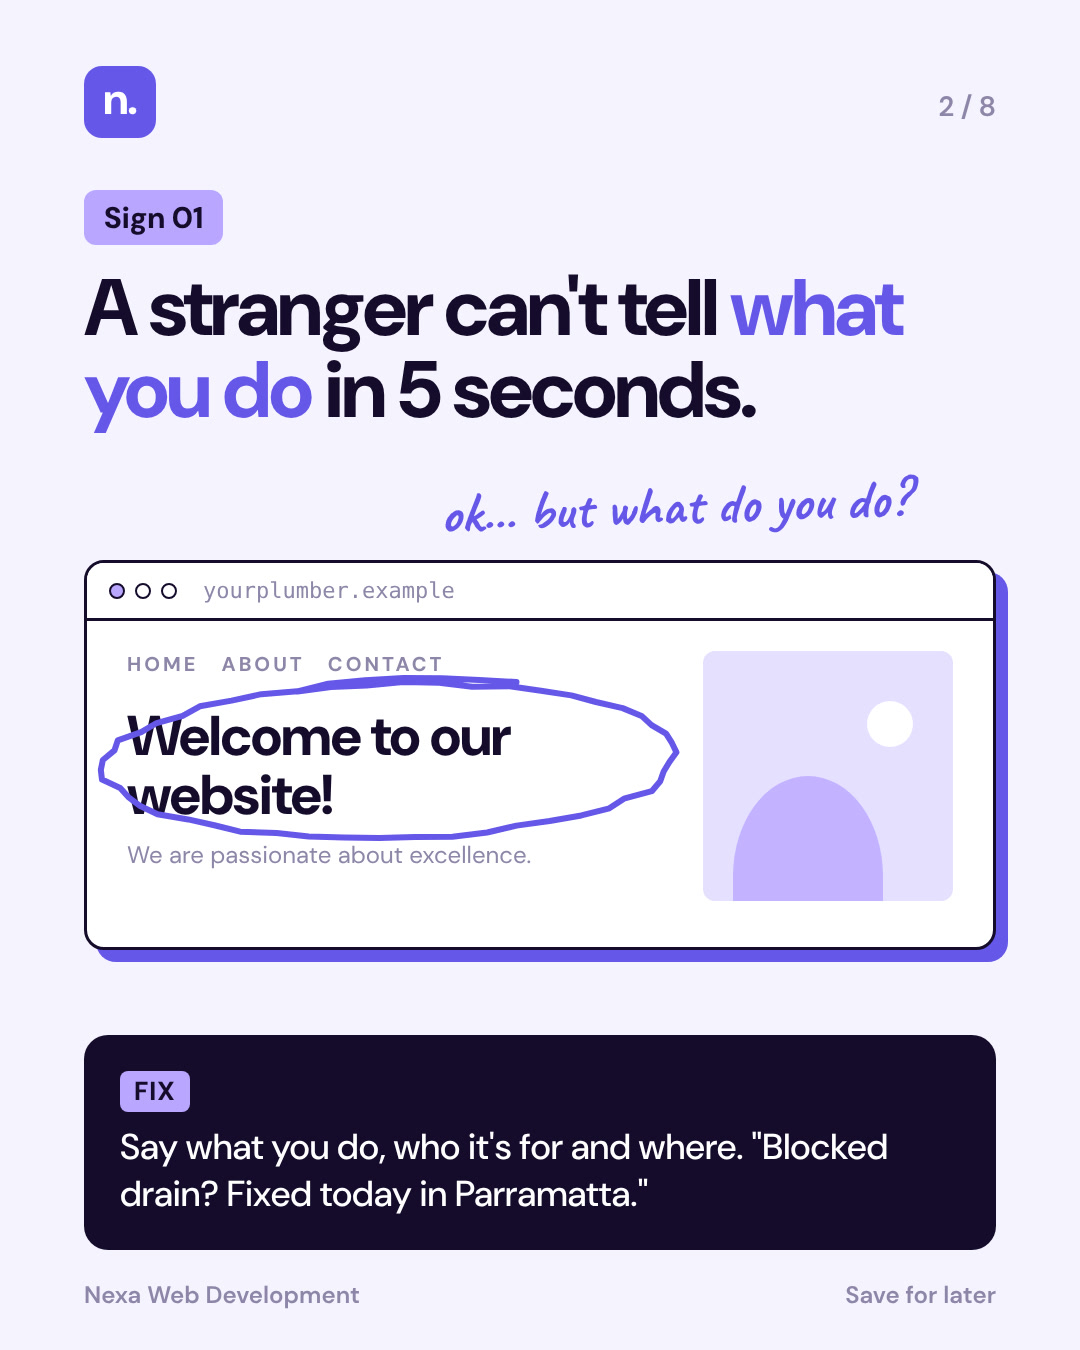
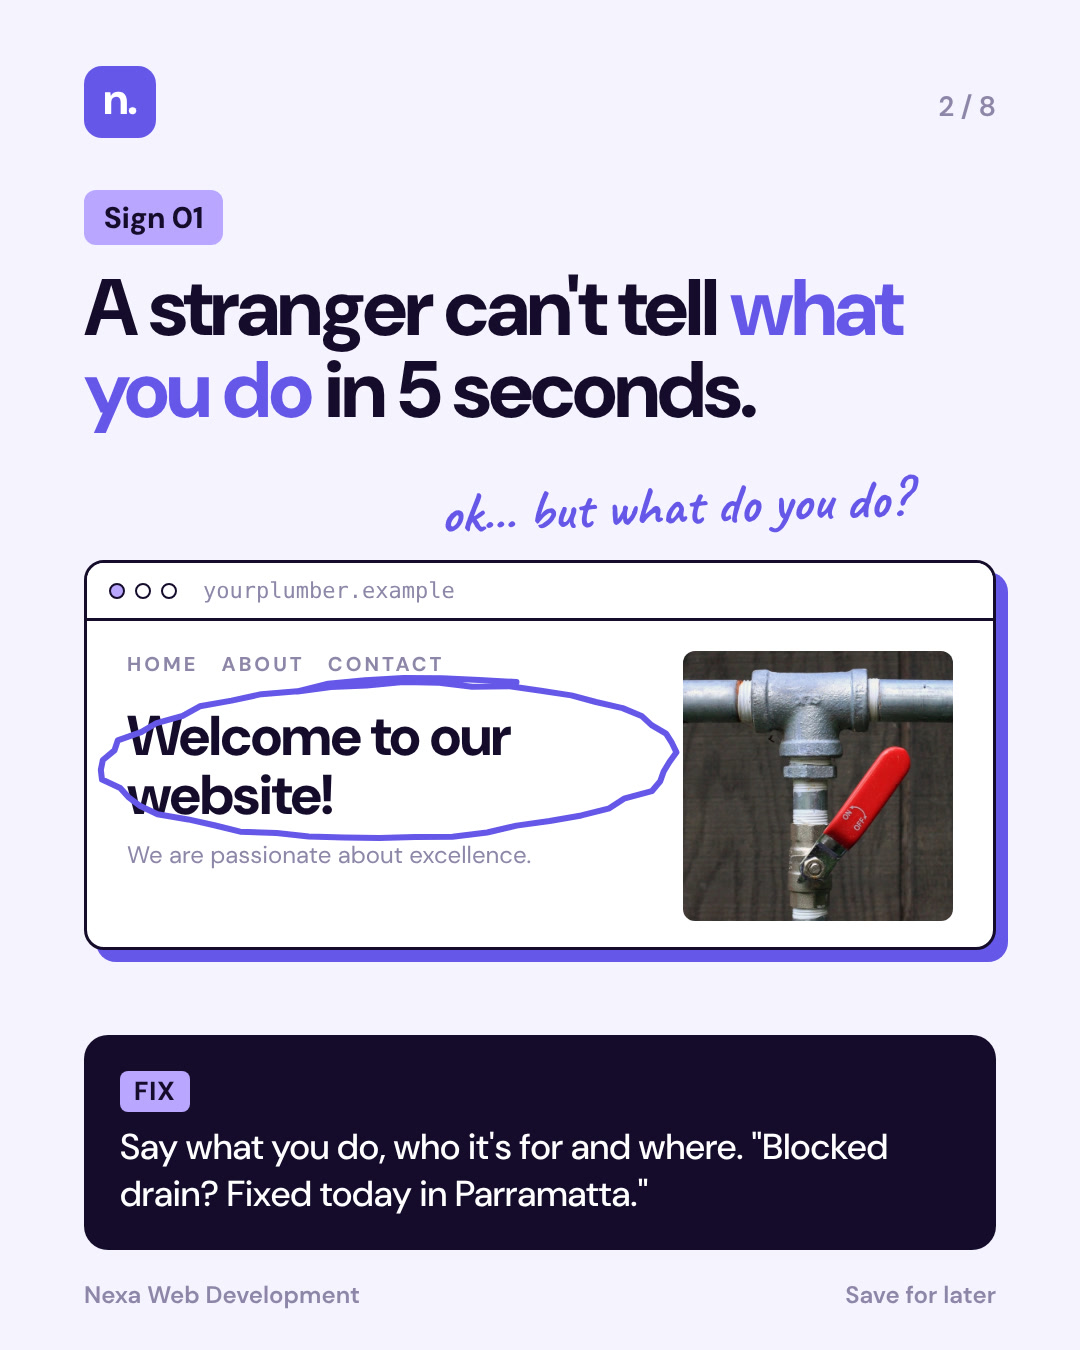
Nexa carousel v4: add CC0 photos to mockups and hook
Claude-Session: https://claude.ai/code/session_01MAv6C5ZgnW2b7gxvkk4iYD

Changed region(s): [[0.6111, 0.4667, 0.8861, 0.6844]]

diff --git a/nexa/images/website-costing-customers-6-signs/src/slides.html b/nexa/images/website-costing-customers-6-signs/src/slides.html
@@ -29,19 +29,17 @@ svg.mk{position:absolute;overflow:visible}
 .pill{border:2px solid var(--line);border-radius:10px;padding:10px 20px;font-size:26px;font-weight:600;color:var(--mute);display:inline-block}
 .bar{height:18px;background:#ECE8F7;border-radius:6px}
 .img{background:var(--soft);border-radius:12px;position:relative;overflow:hidden}
+.ph{display:block;width:100%;height:100%;object-fit:cover;border-radius:12px}
 .img:before{content:"";position:absolute;left:12%;bottom:-30%;width:60%;height:80%;background:var(--lav);border-radius:50% 50% 0 0;opacity:.8}
 .img:after{content:"";position:absolute;right:16%;top:20%;width:46px;height:46px;border-radius:50%;background:#fff}
 </style></head><body>
 
 <!-- 1 HOOK (dark) -->
-<div class="s dark" id="s1">
+<div class="s dark" id="s1"><img src="img/hook.jpg" style="position:absolute;inset:0;width:100%;height:100%;object-fit:cover"><div style="position:absolute;inset:0;background:rgba(21,12,43,.66)"></div>
  <div class="logo">n.</div><div class="pg">@nexaweb_dev</div>
  <div class="h" style="top:230px;font-size:132px">Your website is losing you <em>customers.</em></div>
  <div class="hand" style="left:90px;top:680px;font-size:92px;transform:rotate(-3deg)">and it won't tell you.</div>
- <div class="win" style="left:430px;right:auto;width:600px;top:860px;height:330px;transform:rotate(4deg);box-shadow:12px 12px 0 var(--lav)">
-  <div class="wbar"><i></i><i></i><i></i><span>yoursite.example</span></div>
-  <div style="padding:26px 30px;color:var(--navy)"><div class="bar" style="width:60%"></div><div class="img" style="height:120px;margin-top:20px"></div><div class="bar" style="width:80%;margin-top:20px"></div></div></div>
- <div style="position:absolute;left:84px;top:900px;font-size:40px;font-weight:600;line-height:1.35;width:330px">6 quiet signs to check today.</div>
+  <div style="position:absolute;left:84px;top:900px;font-size:48px;font-weight:600;line-height:1.3;width:800px">6 quiet signs to check today.<br><span style="color:#B9A6FF">Most take 5 minutes to fix.</span></div>
  <svg class="mk" style="left:84px;top:1090px" width="300" height="80"><path d="M6 40 C 80 30, 170 50, 250 38 M226 18 L 262 38 L 230 62" stroke="#B9A6FF" stroke-width="6" fill="none" stroke-linecap="round" stroke-linejoin="round"/></svg>
  <div class="hand" style="left:90px;top:1180px;font-size:56px">swipe</div>
 </div>
@@ -55,7 +53,7 @@ svg.mk{position:absolute;overflow:visible}
   <div style="padding:30px 40px;display:flex;gap:30px"><div style="flex:1"><div style="font-size:20px;letter-spacing:3px;color:var(--mute);font-weight:700">HOME &nbsp; ABOUT &nbsp; CONTACT</div>
   <div style="font-weight:800;font-size:56px;margin-top:30px;letter-spacing:-.02em;line-height:1.05">Welcome to our website!</div>
   <div style="font-size:24px;color:var(--mute);margin-top:14px">We are passionate about excellence.</div></div>
-  <div class="img" style="width:250px;height:250px"></div></div></div>
+  <div style="width:270px;height:270px"><img class="ph" src="img/pipes.jpg"></div></div></div>
  <svg class="mk" id="c2" style="left:96px;top:676px" width="590" height="170"></svg>
  <div class="hand" style="left:440px;top:478px;font-size:56px;white-space:nowrap;transform:rotate(-2deg)">ok... but what do you do?</div>
  <div class="fix"><b>FIX</b><br>Say what you do, who it's for and where. "Blocked drain? Fixed today in Parramatta."</div>
@@ -68,12 +66,12 @@ svg.mk{position:absolute;overflow:visible}
  <div class="lbl"><span class="tagl">Sign 02</span></div>
  <div class="h" style="top:268px;font-size:80px">Your phone number <em>can't be tapped</em> on mobile.</div>
  <div class="win" style="left:130px;right:auto;width:440px;top:530px;height:440px;border-radius:48px">
-  <div style="padding:46px 36px"><div class="bar" style="width:55%;margin:0 auto 26px;height:12px"></div><div class="img" style="height:110px"></div>
+  <div style="padding:46px 36px"><div class="bar" style="width:55%;margin:0 auto 26px;height:12px"></div><div style="height:130px"><img class="ph" src="img/cafe.jpg" style="object-position:50% 85%"></div>
   <div style="font-size:28px;font-weight:700;margin-top:26px">Call us today!</div>
   <div style="font-size:38px;font-weight:500;margin-top:6px;color:#5d5675">02 5550 4321</div>
   <div class="bar" style="width:80%;margin-top:26px"></div></div></div>
- <svg class="mk" id="c3" style="left:140px;top:782px" width="380" height="84"></svg>
- <div class="hand" style="left:640px;top:740px;font-size:58px;transform:rotate(-4deg);width:380px">&larr; not a link.<br>copy, paste,<br>give up</div>
+ <svg class="mk" id="c3" style="left:140px;top:802px" width="380" height="84"></svg>
+ <div class="hand" style="left:640px;top:760px;font-size:58px;transform:rotate(-4deg);width:380px">&larr; not a link.<br>copy, paste,<br>give up</div>
  <div class="fix"><b>FIX</b><br>Make every number a tap to call link, plus a call button that stays on screen.</div>
  <div class="foot"><span>Nexa Web Development</span><span>Save for later</span></div>
 </div>
@@ -100,7 +98,7 @@ svg.mk{position:absolute;overflow:visible}
  <div class="h" style="top:268px;font-size:80px">It loads slower than they can <em>scroll away.</em></div>
  <div class="win" style="top:540px;height:410px"><div class="wbar"><i></i><i></i><i></i><span>loading...</span></div>
   <div style="height:6px;background:#ECE8F7"><div style="width:22%;height:100%;background:var(--ind)"></div></div>
-  <div style="height:240px;margin:24px 36px 0;border:3px dashed var(--line);border-radius:12px;display:flex;align-items:center;justify-content:center;font-size:28px;color:var(--mute);font-weight:600">hero-photo-FINAL-v3.png (14 MB)</div></div>
+  <div style="height:300px;margin:24px 36px 0;border-radius:12px;overflow:hidden;position:relative;background:#ECE8F7"><img src="img/garden.jpg" style="width:100%;height:300px;object-fit:cover;clip-path:inset(0 0 50% 0)"><div style="position:absolute;left:0;right:0;top:50%;height:6px;background:linear-gradient(90deg,transparent,var(--ind),transparent)"></div><div style="position:absolute;left:0;right:0;bottom:40px;text-align:center;font-size:28px;color:var(--mute);font-weight:600">hero-photo-FINAL-v3.png (14 MB)</div></div></div>
  <div class="hand" style="left:600px;top:460px;font-size:60px;transform:rotate(-3deg)">still loading...</div>
  <div class="fix"><b>FIX</b><br>Resize and compress your images, then test your site for free at pagespeed.web.dev</div>
  <div class="foot"><span>Nexa Web Development</span><span>Save for later</span></div>
@@ -114,8 +112,8 @@ svg.mk{position:absolute;overflow:visible}
  <div class="win" style="top:480px;height:440px"><div class="wbar"><i></i><i></i><i></i><span>yourbusiness.example</span></div>
   <div style="padding:34px 40px;display:flex;flex-wrap:wrap;gap:16px">
   <span class="pill">Learn more</span><span class="pill">Our story</span><span class="pill">Explore</span><span class="pill">Discover</span><span class="pill">Resources</span><span class="pill">Gallery</span><span class="pill">Find out more</span><span class="pill">Blog</span></div>
-  <div class="img" style="height:120px;margin:6px 40px 0"></div></div>
- <svg class="mk" id="c6" style="left:88px;top:540px" width="904" height="200"></svg>
+  <div style="height:150px;margin:6px 40px 0"><img class="ph" src="img/cafe2.jpg" style="object-position:50% 60%"></div></div>
+ <svg class="mk" id="c6" style="left:74px;top:530px" width="932" height="196"></svg>
  <div class="hand" style="left:520px;top:940px;font-size:58px;transform:rotate(-3deg)">so... how do I book?</div>
  <div class="fix"><b>FIX</b><br>One main button ("Get a quote") near the top, repeated as they scroll. Same words every time.</div>
  <div class="foot"><span>Nexa Web Development</span><span>Save for later</span></div>
@@ -128,11 +126,11 @@ svg.mk{position:absolute;overflow:visible}
  <div class="h" style="top:268px;font-size:80px">Your site looks like <em>nobody's home.</em></div>
  <div class="win" style="top:480px;height:420px"><div class="wbar"><i></i><i></i><i></i><span>yourbusiness.example/news</span></div>
   <div style="padding:34px 40px"><div style="font-size:24px;color:var(--mute);font-weight:600">Posted March 2019</div>
-  <div style="font-size:44px;font-weight:800;margin-top:8px;letter-spacing:-.01em">Exciting things coming soon!</div>
-  <div class="bar" style="width:85%;margin-top:22px"></div><div class="bar" style="width:60%;margin-top:12px"></div>
+  <div style="display:flex;gap:28px;margin-top:8px"><div style="flex:1"><div style="font-size:44px;font-weight:800;letter-spacing:-.01em;line-height:1.1">Exciting things coming soon!</div>
+  <div class="bar" style="width:85%;margin-top:22px"></div><div class="bar" style="width:60%;margin-top:12px"></div></div><div style="width:250px;height:170px"><img class="ph" src="img/closed.jpg"></div></div>
   <div style="height:2px;background:#ECE8F7;margin:40px 0 20px"></div>
   <div style="font-size:24px;color:var(--mute)">© 2019 Example Co &nbsp;·&nbsp; Opening hours: TBC</div></div></div>
- <svg class="mk" id="c7" style="left:100px;top:586px" width="720" height="100"></svg>
+ <svg class="mk" id="c7" style="left:96px;top:600px" width="560" height="150"></svg>
  <div class="hand" style="left:540px;top:930px;font-size:58px;transform:rotate(-3deg)">are they still open?</div>
  <div class="fix"><b>FIX</b><br>Update the footer year, hours and old posts, or delete them. Stale looks closed.</div>
  <div class="foot"><span>Nexa Web Development</span><span>Save for later</span></div>
@@ -157,6 +155,6 @@ svg.mk{position:absolute;overflow:visible}
 function loop(id,w,h,rot,col){const el=document.getElementById(id);let r=1;const rnd=()=>{r=(r*9301+49297)%233280;return r/233280};
 let d='',cx=w/2,cy=h/2;for(let i=0;i<=56;i++){const a=-1.9+i/50*Math.PI*2;const k=1+(rnd()-.5)*.05+(i>50?.06:0);const x=cx+Math.cos(a)*(w/2-8)*k,y=cy+Math.sin(a)*(h/2-8)*k;d+=(i?'L':'M')+x.toFixed(1)+' '+y.toFixed(1)}
 el.innerHTML=`<path d="${d}" stroke="${col||'#6557E8'}" stroke-width="6" fill="none" stroke-linecap="round" stroke-linejoin="round" transform="rotate(${rot} ${cx} ${cy})"/>`}
-loop("c2",590,170,-1.5);loop('c3',380,84,2);loop('c4',420,84,-2);loop('c6',904,200,1);loop('c7',720,100,-1);
+loop("c2",590,170,-1.5);loop('c3',380,84,2);loop('c4',420,84,-2);loop('c6',932,200,1);loop('c7',560,150,-1);
 </script>
 </body></html>

diff --git a/nexa/images/website-costing-customers-6-signs/src/img/CREDITS.md b/nexa/images/website-costing-customers-6-signs/src/img/CREDITS.md
@@ -1,0 +1,7 @@
+All photos CC0 / public domain via Openverse (no attribution required, credited anyway):
+- hook.jpg: View woman working laptop desk by None (rawpixel), cc0 1.0, https://www.rawpixel.com/image/8809250/photo-image-books-hands-social-media
+- pipes.jpg: Sprinkler system by None (rawpixel), cc0 1.0, https://www.rawpixel.com/image/5907868/sprinkler-system-free-public-domain-cc0-image
+- cafe.jpg: A cozy cafe interior with wooden chairs and tables arranged neatly on a patterned tile floor. Large windows allow natural light to illuminate the space. The decor features rustic elements, creating a warm and inviting atmosphere. by Nilo Velez (wordpress), cc0 1.0, https://wordpress.org/photos/photo/78067a4728/
+- garden.jpg: A landscaped garden with neatly trimmed bushes and flowering plants is in the foreground. In the background, there are trees and a cloudy sky, with a hilly landscape partially visible. A modern building and parked cars can also be seen. by shirishpoudel07 (wordpress), cc0 1.0, https://wordpress.org/photos/photo/48467dae72/
+- cafe2.jpg: Tables cushions cafe interior Istanbul by None (rawpixel), cc0 1.0, https://www.rawpixel.com/image/3303531/free-photo-image-zoom-background-cafe-beverage
+- closed.jpg: Free vintage closed sign image by None (rawpixel), cc0 1.0, https://www.rawpixel.com/image/5926275/photo-image-background-public-domain-vintage

diff --git a/nexa/NOTES.md b/nexa/NOTES.md
@@ -9,3 +9,6 @@
   lavender #B9A6FF (highlight word / label boxes), deep navy #150C2B (dark backgrounds/text). Headline font: DM Sans ExtraBold.
   Approved-direction carousel template: nexa/images/website-costing-customers-6-signs/src/slides.html (v3). He liked the
   hand-annotated wireframe idea and asked for it to be more visually appealing.
+- 2026-11-20 (Jayden): carousels need real images (visually appealing, not overloaded). Use CC0 photos via Openverse
+  (api.openverse.org, license=cc0; stocksnap downloads fail here, rawpixel/wordpress.org/wikimedia work), max one per slide,
+  no recognisable faces. Keep credits in src/img/CREDITS.md.
